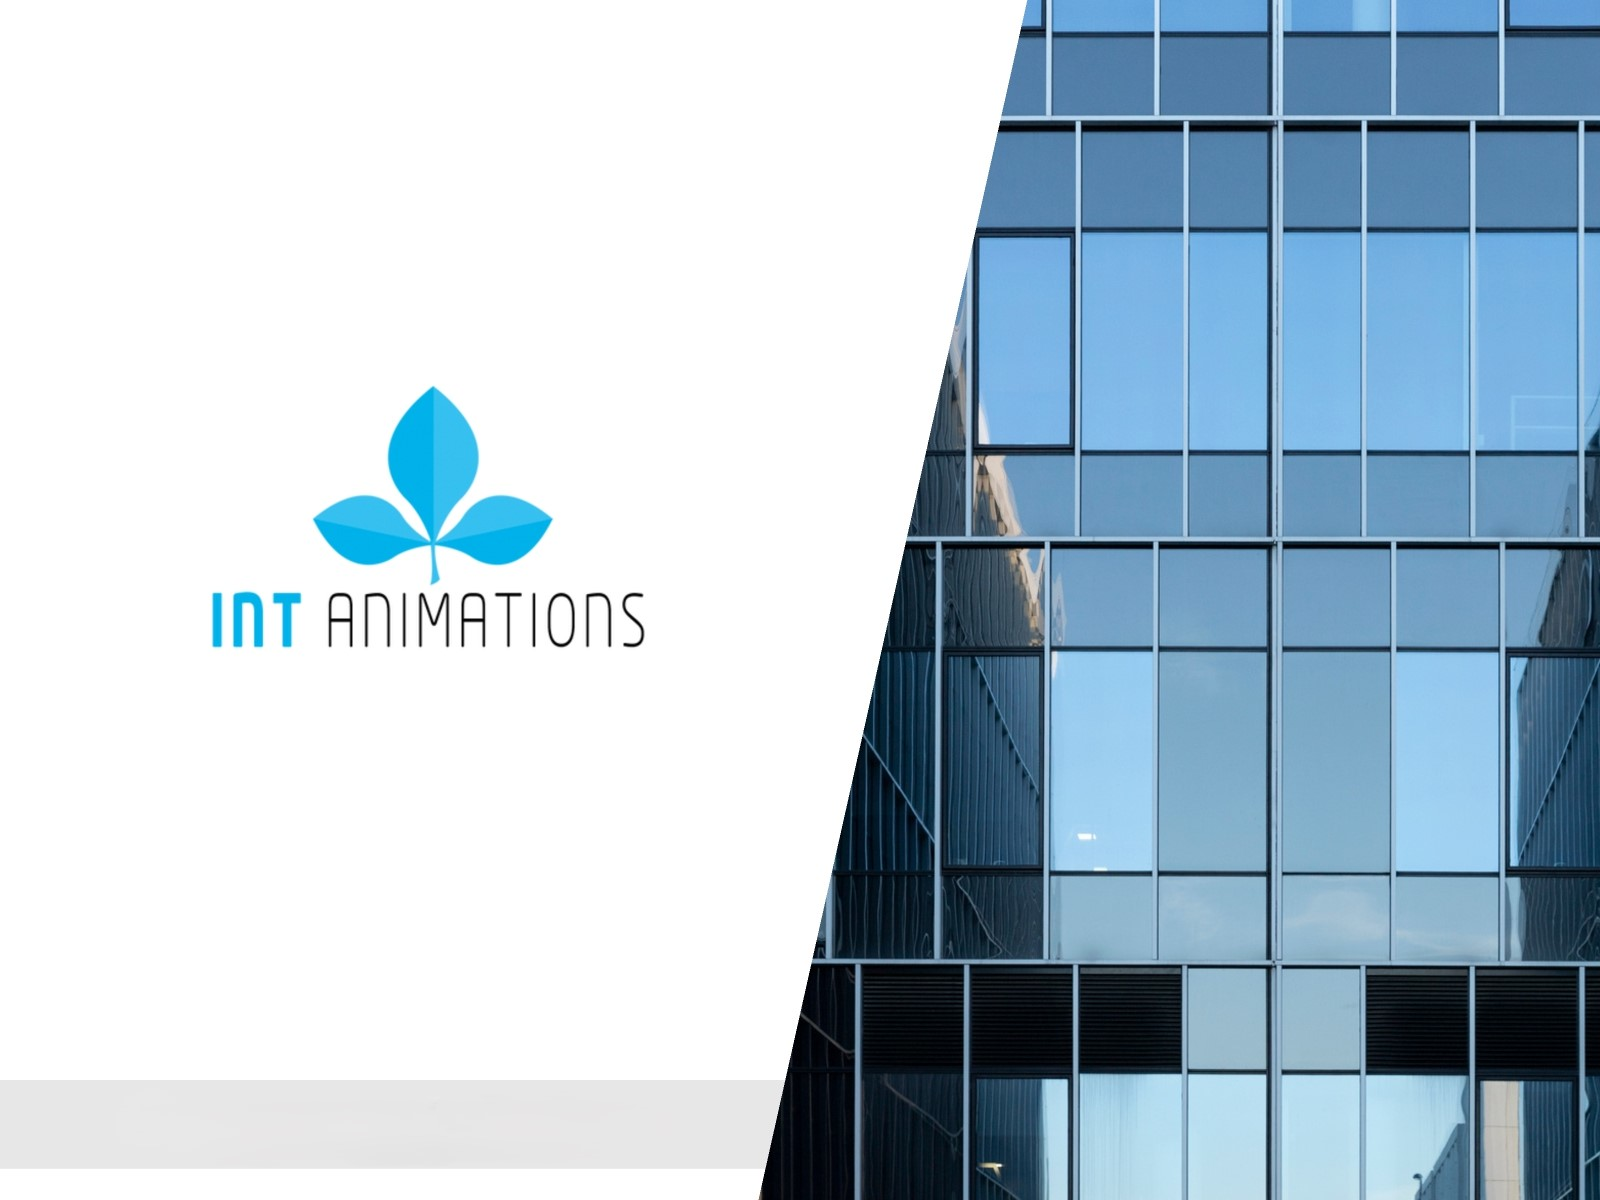
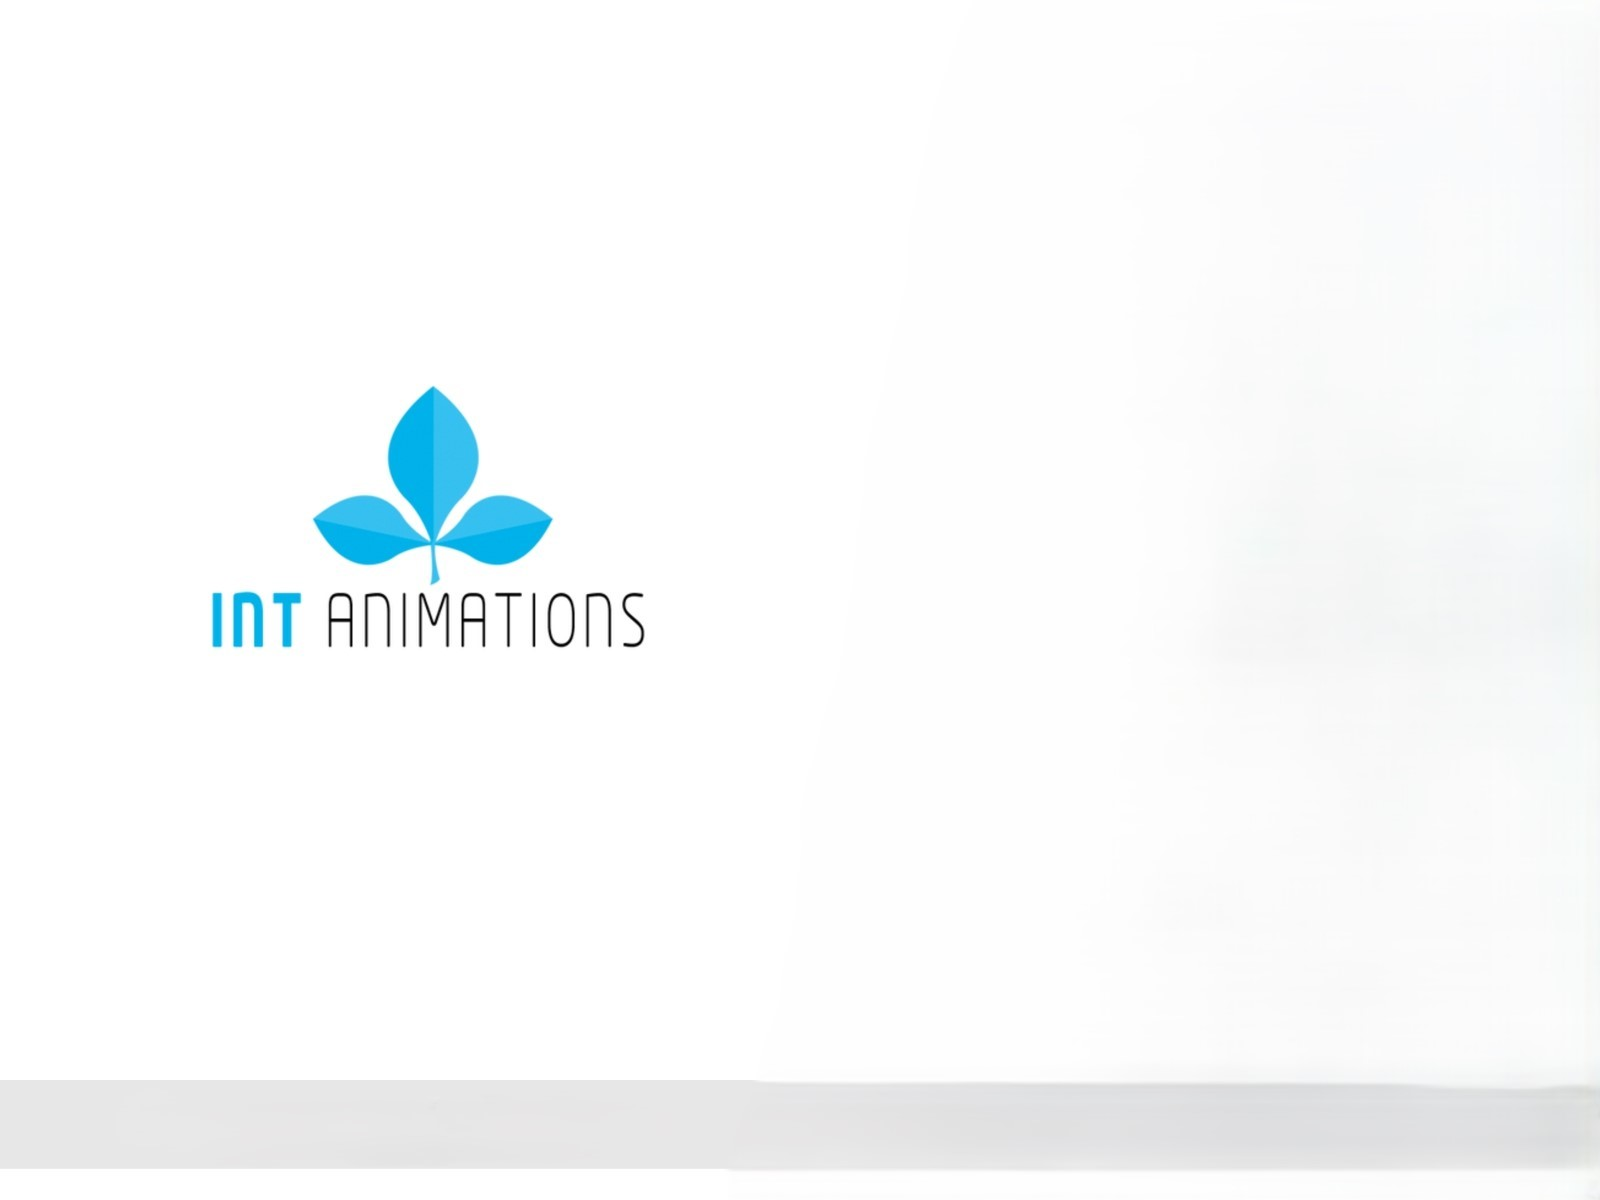
Modified links

diff --git a/src/sections/Hero.jsx b/src/sections/Hero.jsx
@@ -1,34 +1,43 @@
-import { useEffect, useState } from "react";
-import image1 from "../assets/Profile/Pic01.jpg";
-import image2 from "../assets/Profile/Pic04.jpg";
-// import image3 from "../assets/Profile/Pic09.jpg";
+import mainImage from "../assets/Profile/Pic01.jpg"; 
+import image1 from "../assets/Profile/logo01.jpg";   
+import image2 from "../assets/Profile/logo02.jpg";  
+import image3 from "../assets/Profile/logo03.png";  
 
 function Hero() {
-  const [currentImageIndex, setCurrentImageIndex] = useState(0);
-  const images = [image1, image2];
-
-  useEffect(() => {
-    const interval = setInterval(() => {
-      setCurrentImageIndex((prevIndex) => (prevIndex + 1) % images.length);
-    }, 4000); // Change image every 4 seconds
-
-    return () => clearInterval(interval);
-  }, [images.length]);
-
   return (
     <section id="home" className="relative w-full h-screen overflow-hidden flex justify-center items-center">
-      {/* Image Slideshow with adjusted size */}
-      <div className="relative w-full h-full flex justify-center items-center overflow-hidden rounded-lg shadow-lg opacity-80" > 
-        {images.map((image, index) => (
-          <img
-            key={index}
-            src={image}
-            alt="Slideshow"
-            className={`absolute w-full h-full object-cover transition-opacity duration-1000 ${
-              index === currentImageIndex ? "opacity-100" : "opacity-0"
-            }`}
-          />
-        ))}
+     {/* Full-Screen Main Image with a Soft Grey Blur */}
+     <div className="absolute w-full h-full">
+        <img src={mainImage} alt="Background" className="w-full h-full object-cover blur-[2px] opacity-95" />
+        <div className="absolute inset-0"></div>
+      </div>
+
+
+      {/* Clickable Reference Images Positioned to the Right */}
+      <div className="absolute right-10 top-[10%] flex flex-col gap-4">
+        {/* Image 1 (INT MEDIA) */}
+        <img
+          src={image1}
+          alt="INT MEDIA"
+          className="w-40 h-40 cursor-pointer rounded-lg shadow-lg transition-transform transform hover:scale-105"
+          onClick={() => window.open("https://www.youtube.com/channel/UCCNFPBjkrrVqbhZXijKlPNQ", "_blank")}
+        />
+
+        {/* Image 2 (INT SYSTEMS) */}
+        <img
+          src={image2}
+          alt="INT SYSTEMS"
+          className="w-40 h-40 cursor-pointer rounded-lg shadow-lg transition-transform transform hover:scale-105"
+          onClick={() => alert("Show Image Viewer")}
+        />
+
+        {/* Image 3 (INT ENTERTAINMENT) */}
+        <img
+          src={image3}
+          alt="INT ENTERTAINMENT"
+          className="w-40 h-40 cursor-pointer rounded-lg shadow-lg transition-transform transform hover:scale-105"
+          onClick={() => alert("Show Slideshow")}
+        />
       </div>
     </section>
   );
